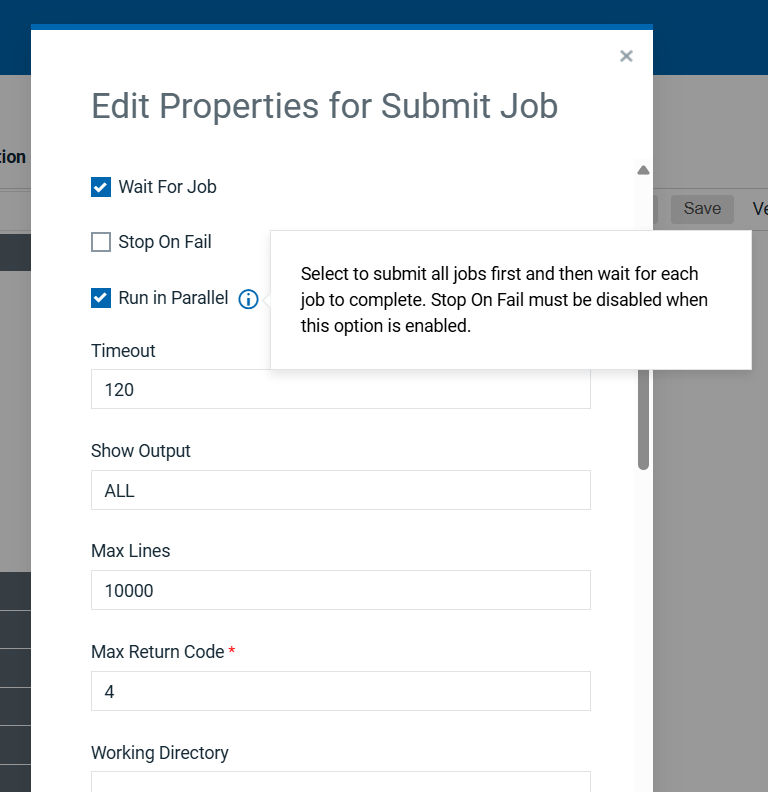
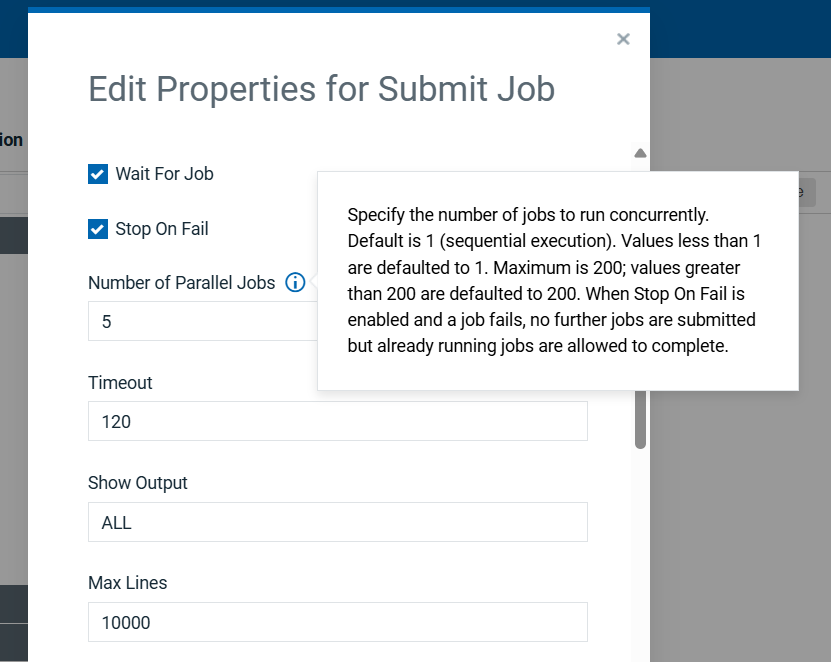
Added new version 106 for z/OS utility plugin (#148)

Pull request: Added new version 106 for z/OS utility plugin

diff --git a/docs/UCD/zos-deploy/steps.md b/docs/UCD/zos-deploy/steps.md
@@ -248,7 +248,7 @@ Submit job.
 | Replace Tokens                                | String                                          | Specify replacement rules to apply to the JCL before submission. Rules are represented by a list of explicit tokens to replace in the following format: token->value. Separate rules with newline characters. For example, mytoken->new_value will replace the mytoken string with new_value in all files. To replace @token@ with new_value, specify @token@->new_value. Regular expressions are not supported.                                                            | No       |
 | Show Output                                   | String                                          | Specify the output data set to be displayed in the log. Separate multiple data sets with commas. Specify ALL for all data sets.                                                                                                                                                                                                                                                                                                                                             | No       |
 | Stop On Fail                                  | Boolean                                         | Select to stop submitting jobs after a job fails. Failure is determined by the Max Return Code and Timeout fields. A JCL error is always considered a failure.                                                                                                                                                                                                                                                                                                              | No       |
-| Run In Parallel                               | Boolean                                         | Select to submit all jobs first and then wait for each job to complete. Stop On Fail must be disabled when this option is enabled.                                                                                                                                                                                                                                                                                                                                          | No       |
+| Number of Parallel Jobs                       | String                                          | Specify the number of jobs to run concurrently. Default is 1 (sequential execution). Values less than 1 are defaulted to 1. Maximum is 200; values greater than 200 are defaulted to 200. When Stop On Fail is enabled and a job fails, no further jobs are submitted but already running jobs are allowed to complete.                                                                                                                                                     | No       |
 | Timeout                                       | String                                          | Specify the timeout in seconds.                                                                                                                                                                                                                                                                                                                                                                                                                                             | No       |
 | Wait For Job                                  | Boolean                                         | Select to wait for the job to complete. If cleared, the Timeout, Show Output, Max Lines, and Max Return Code fields are not used.                                                                                                                                                                                                                                                                                                                                           | No       |
 |                                               |                                                 | **Hidden Properties (below)**                                                                                                                                                                                                                                                                                                                                                                                                                                               |          |
@@ -325,22 +325,72 @@ Restored datasets from backup taken during deployment
 
 Creates a sub-version from an existing version.
 
-| Name                 | Type   | Description                                                                                               | Required |
-|----------------------|--------|-----------------------------------------------------------------------------------------------------------|----------|
-| Source Version       | String | Specify the source version from which to create the sub-version. The version must be of type INCREMENTAL. | Yes      |
-| New Sub-Version Name | String | Specify the name of the new sub-version to create.                                                        | Yes      |
-| Component Name       | String | Specify the name of the component.                                                                        | Yes      |
-| Includes             | String | Specify a list of patterns or dataset member names that describe artifacts to include in the sub-version. | Yes      |
+| Name                       | Type    | Description                                                                                                                                                                                                                                                              | Required |
+|----------------------------|---------|--------------------------------------------------------------------------------------------------------------------------------------------------------------------------------------------------------------------------------------------------------------------------|----------|
+| Source Version             | String  | Specify the source version from which to create the sub-version. The version must be of type INCREMENTAL.                                                                                                                                                                | Yes      |
+| New Sub-Version Name       | String  | Specify the name of the new sub-version to create.                                                                                                                                                                                                                       | Yes      |
+| Component Name             | String  | Specify the name of the component.                                                                                                                                                                                                                                       | Yes      |
+| Includes                   | String  | Specify a list of patterns or dataset member names that describe artifacts to include in the sub-version.                                                                                                                                                                | No       |
+| Excludes                   | String  | Specify a list of patterns or dataset member names that describe artifacts to exclude in the sub-version.                                                                                                                                                                | No       |
+| Inherit Version Properties | Boolean | Select to inherit version properties from the source version to the new sub-version.                                                                                                                                                                                     | No       |
+| Version Properties         | String  | Specify a list of version properties to add to the new sub-version, separated by newline characters. Use the following format: propertyName=propertyValue. For example, specify env=dev to add a version property called env with a value of dev to the new sub-version. | No       |
 
 **Note:**
-The format for the `includes` should be one of the below
+`includes`/`excludes` are mutually exclusive. The format for the `includes`/`excludes` should be one of the below
 * \[dataset-name\]
-* \[dataset-name\], \[member-name]
+* \[dataset-name\], \[member-name\]
 * /\[dataset-regex\]/
 * /\[dataset-regex\]/, /\[member-regex\]/
 
-Separate patterns and dataset/member names with newline character. Here are some examples of valid `includes` values:
+Separate patterns and dataset/member names with newline character.
+
+### Examples of valid `includes` values:
 * Specify BUILD.JCL to include the dataset BUILD.JCL and all its members.
 * Specify BUILD.JCL(ABC) to include member ABC in dataset BUILD.JCL.
 * Specify /BUILD.*/ to include datasets that start with BUILD.
 * Specify /.*JCL/,/(ABC|DEF)/ to include members ABC and DEF in any dataset that ends with JCL.
+
+### Examples of valid `excludes` values:
+* Specify BUILD.JCL to exclude the dataset BUILD.JCL and all its members.
+* Specify BUILD.JCL(ABC) to exclude member ABC in dataset BUILD.JCL.
+* Specify /BUILD.*/ to exclude datasets that start with BUILD.
+* Specify /.*JCL/,/(ABC|DEF)/ to exclude members ABC and DEF in any dataset that ends with JCL.
+
+## Create Sub-Version from Version for External Repository
+
+Creates a sub-version from an existing version for an external repository.
+
+| Name                       | Type    | Description                                                                                                                                                                                                                                                              | Required |
+|----------------------------|---------|--------------------------------------------------------------------------------------------------------------------------------------------------------------------------------------------------------------------------------------------------------------------------|----------|
+| Source Version             | String  | Specify the source version from which to create the sub-version. The version must be of type INCREMENTAL.                                                                                                                                                                | Yes      |
+| New Sub-Version Name       | String  | Specify the name of the new sub-version to create.                                                                                                                                                                                                                       | Yes      |
+| Component Name             | String  | Specify the name of the component.                                                                                                                                                                                                                                       | Yes      |
+| Includes                   | String  | Specify a list of patterns or dataset member names that describe artifacts to include in the sub-version.                                                                                                                                                                | No       |
+| Excludes                   | String  | Specify a list of patterns or dataset member names that describe artifacts to exclude in the sub-version.                                                                                                                                                                | No       |
+| Inherit Version Properties | Boolean | Select to inherit version properties from the source version to the new sub-version.                                                                                                                                                                                     | No       |
+| Version Properties         | String  | Specify a list of version properties to add to the new sub-version, separated by newline characters. Use the following format: propertyName=propertyValue. For example, specify env=dev to add a version property called env with a value of dev to the new sub-version. | No       |
+| Username                   | String  | Username                                                                                                                                                                                                                                                                 | Yes      |
+| Password/API Key/Token     | String  | Enter the password/Api-Key/Token used to authenticate with the artifact repository                                                                                                                                                                                       | Yes      |
+| HTTP Proxy Host            | String  | HTTP Proxy Host                                                                                                                                                                                                                                                          | No       |
+| HTTP Proxy Port            | String  | HTTP Proxy Port                                                                                                                                                                                                                                                          | No       |
+
+**Note:**
+`includes`/`excludes` are mutually exclusive. The format for the `includes`/`excludes` should be one of the below
+* \[dataset-name\]
+* \[dataset-name\], \[member-name\]
+* /\[dataset-regex\]/
+* /\[dataset-regex\]/, /\[member-regex\]/
+
+Separate patterns and dataset/member names with newline character. 
+
+### Examples of valid `includes` values:
+* Specify BUILD.JCL to include the dataset BUILD.JCL and all its members.
+* Specify BUILD.JCL(ABC) to include member ABC in dataset BUILD.JCL.
+* Specify /BUILD.*/ to include datasets that start with BUILD.
+* Specify /.*JCL/,/(ABC|DEF)/ to include members ABC and DEF in any dataset that ends with JCL.
+
+### Examples of valid `excludes` values:
+* Specify BUILD.JCL to exclude the dataset BUILD.JCL and all its members.
+* Specify BUILD.JCL(ABC) to exclude member ABC in dataset BUILD.JCL.
+* Specify /BUILD.*/ to exclude datasets that start with BUILD.
+* Specify /.*JCL/,/(ABC|DEF)/ to exclude members ABC and DEF in any dataset that ends with JCL.

diff --git a/docs/UCD/zos-deploy/usage.md b/docs/UCD/zos-deploy/usage.md
@@ -174,16 +174,13 @@ In the previous example, three jobs are submitted because three rule sets are sp
 
 ## Submitting JCL jobs in parallel
 
-From version 103 of the z/OS Utility plug-in, you can submit multiple JCL jobs in parallel.
-To submit JCL jobs in parallel, enable `Run in Parallel` option in the Submit Job step, and uncheck `Stop On Fail` option as shown below.
+From version 106 of the z/OS Utility plug-in, you can submit multiple JCL jobs in parallel.
+To submit JCL jobs in parallel, set `Number of parallel jobs` option in the Submit Job step to more than 1.
 
-[![submit_jobs_in_parallel](media/submit-jobs-in-parallel.png)](media/submit-jobs-in-parallel.png)
+[![submit_job_in_parallel](media/submit-jobs-in-parallel.png)](media/submit-jobs-in-parallel.png)
 
-When `Run in Parallel` is enabled, multiple jobs are submitted at the same time, and the step waits for all jobs to complete.
-The step status is success if all the jobs run to completion, and fail if any of the jobs fail.
-
-By default, the `Run in Parallel` option is disabled, and the jobs are submitted sequentially. 
-Enabling this option allows you to submit multiple jobs at the same time, which can reduce the total execution time of the step if the jobs are independent and can run concurrently.
+For example in the above screenshot, `Number of parallel jobs` is set to 5, which means that at most 5 jobs will be submitted in parallel. If there are more than 5 jobs to be submitted, the remaining jobs will be submitted after one of the running jobs completes.
+When `Stop On Fail` is enabled and a job fails, no further jobs are submitted but already running jobs are allowed to complete.
 
 ## Processing multiple data sets or data set members
 

diff --git a/docs/UCD/zos-deploy/overview.md b/docs/UCD/zos-deploy/overview.md
@@ -44,6 +44,13 @@ No special steps are required for installation. See [Installing plug-ins in DevO
 
 ## History
 
+### Version 106
+
+* Replaced checkbox to Run In Parallel in Submit Job step with text box to pass number of parallel jobs to run
+* Added option to exclude, inherit properties and add properties in Create Sub-Version step
+* Added new step to create sub version for external repository artifacts
+* Ignore exception when there are no mapping for datasets in Restore Backup Datasets step
+
 ### Version 105
 
 * 1189136 - Upgraded 'Deploy dataset and USS files' plugin step property 'Update Deploy timestamp for PDS' to 'Update Deploy userid and timestamp' to update both user-id and deploy-timestamp. Refer Usage page for more information.

diff --git a/docs/UCD/zos-deploy/downloads.md b/docs/UCD/zos-deploy/downloads.md
@@ -2,6 +2,7 @@
 
 To download the plug-in, click the following version-specific links.
 
+- [devops-deploy-zos-deploy-106.1190348.zip](https://raw.githubusercontent.com/UrbanCode/IBM-UCD-PLUGINS/main/files/zos-deploy/devops-deploy-zos-deploy-106.1190348.zip)
 - [devops-deploy-zos-deploy-105.1190073.zip](https://raw.githubusercontent.com/UrbanCode/IBM-UCD-PLUGINS/main/files/zos-deploy/devops-deploy-zos-deploy-105.1190073.zip)
 - [devops-deploy-zos-deploy-105.1190018.zip](https://raw.githubusercontent.com/UrbanCode/IBM-UCD-PLUGINS/main/files/zos-deploy/devops-deploy-zos-deploy-105.1190018.zip)
 - [devops-deploy-zos-deploy-105.1189524.zip](https://raw.githubusercontent.com/UrbanCode/IBM-UCD-PLUGINS/main/files/zos-deploy/devops-deploy-zos-deploy-105.1189524.zip)